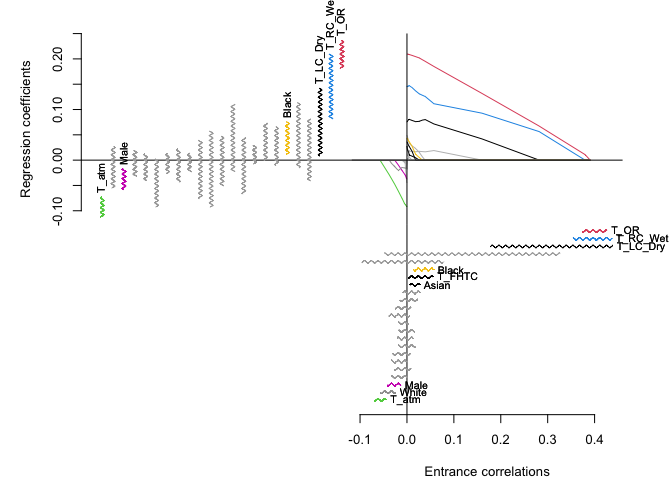
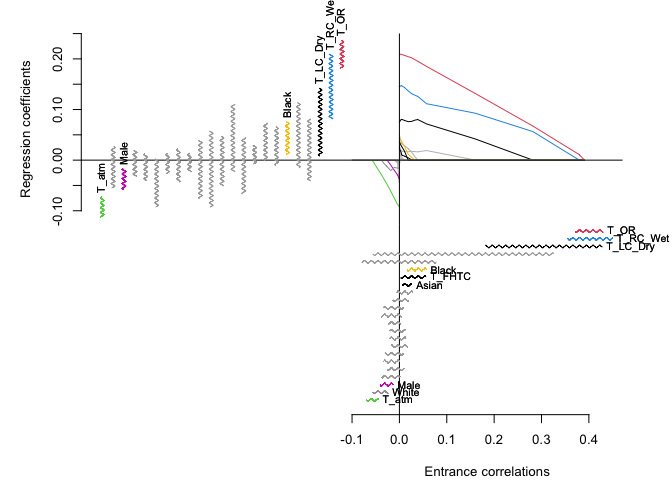
Add files via upload

diff --git a/README.md b/README.md
@@ -1,3 +1,11 @@
+# The larinf package
+
+Perform least angle regression inference with the bootstrap.
+
+<!-- This is an R package which accompanies the paper: -->
+<!-- Gregory, K. and Nordman, D. (2025+). Least angle regression inference. *In progress* -->
+<!-- Find the paper on the page https://imstat.org/journals-and-publications/annals-of-statistics/annals-of-statistics-future-papers/ -->
+
 Install with the R commands:
 
     install.packages("devtools")
@@ -36,26 +44,26 @@ Print the estimated entrance correlations with 95% confidence intervals:
     ## In order of entrance:
     ## 
     ##           Entrance correlation   2.5%  97.5%
-    ## T_OR                     0.391  0.373  0.427
-    ## T_RC_Wet                 0.380  0.355  0.436
-    ## T_LC_Dry                 0.282  0.178  0.438
-    ## T_RC_Dry                 0.160 -0.048  0.327
+    ## T_OR                     0.391  0.371  0.430
+    ## T_RC_Wet                 0.380  0.355  0.450
+    ## T_LC_Dry                 0.282  0.182  0.428
+    ## T_RC_Dry                 0.160 -0.056  0.326
     ## T_atm                   -0.057 -0.069 -0.044
-    ## T_LC_Wet                 0.038 -0.096  0.078
+    ## T_LC_Wet                 0.038 -0.079  0.078
     ## White                   -0.038 -0.056 -0.024
-    ## Black                    0.033  0.014  0.057
+    ## Black                    0.033  0.016  0.057
     ## T_FHTC                   0.026  0.003  0.056
-    ## Male                    -0.026 -0.042 -0.013
-    ## Asian                    0.018  0.006  0.027
-    ## Hisp                    -0.011 -0.034  0.000
-    ## Distance                 0.010 -0.009  0.028
-    ## Age31_40                -0.009 -0.028  0.008
-    ## Age21_25                 0.007 -0.015  0.022
-    ## T_FHLC                  -0.005 -0.034  0.000
-    ## Cosmetics               -0.005 -0.030  0.007
-    ## T_FHBC                   0.004 -0.024  0.008
-    ## Age26_30                -0.003 -0.018  0.018
-    ## Humidity                -0.003 -0.021  0.014
-    ## Age18_20                -0.002 -0.017  0.016
-    ## T_FHCC                  -0.001 -0.017  0.004
+    ## Male                    -0.026 -0.041 -0.013
+    ## Asian                    0.018  0.007  0.027
+    ## Hisp                    -0.011 -0.037  0.001
+    ## Distance                 0.010 -0.005  0.028
+    ## Age31_40                -0.009 -0.026  0.009
+    ## Age21_25                 0.007 -0.014  0.020
+    ## T_FHLC                  -0.005 -0.033  0.000
+    ## Cosmetics               -0.005 -0.030  0.008
+    ## T_FHBC                   0.004 -0.033  0.008
+    ## Age26_30                -0.003 -0.017  0.017
+    ## Humidity                -0.003 -0.020  0.014
+    ## Age18_20                -0.002 -0.020  0.012
+    ## T_FHCC                  -0.001 -0.024  0.003
     ## T_FHRC                   0.000 -0.038  0.005
